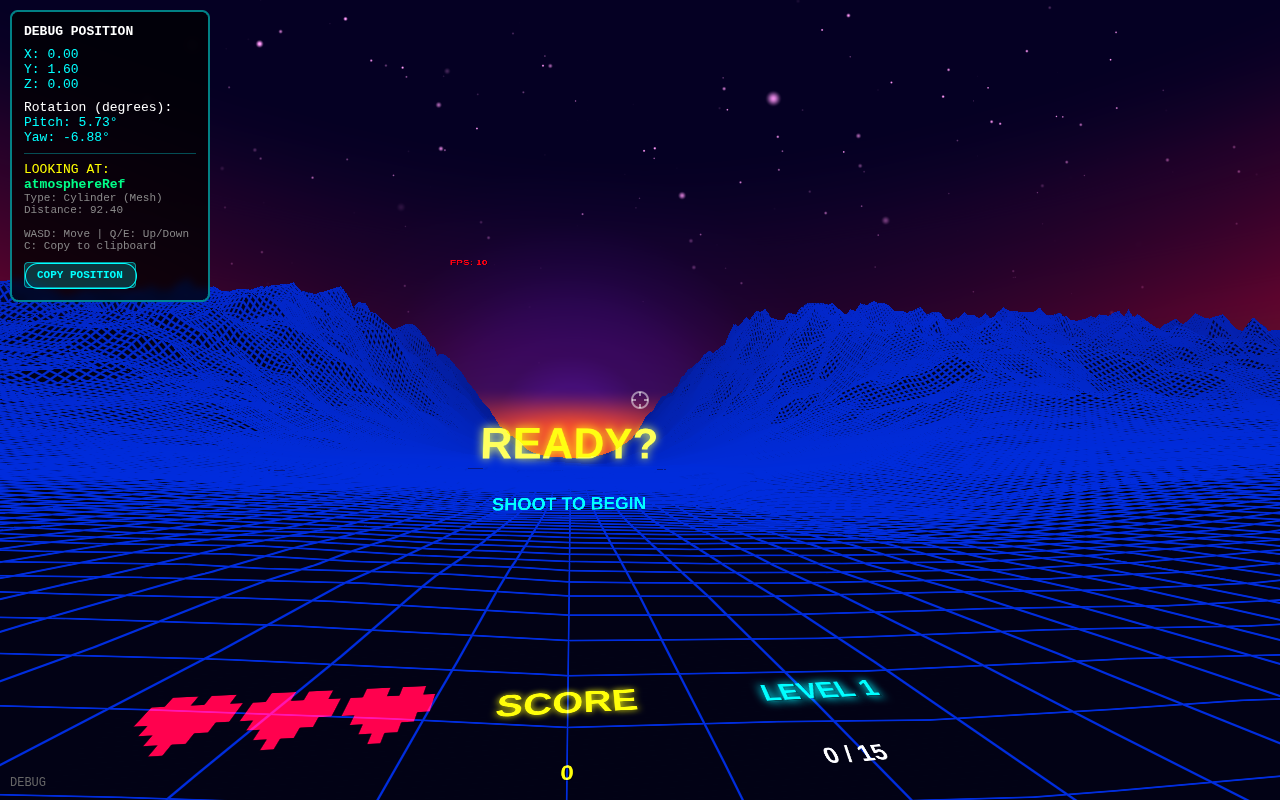
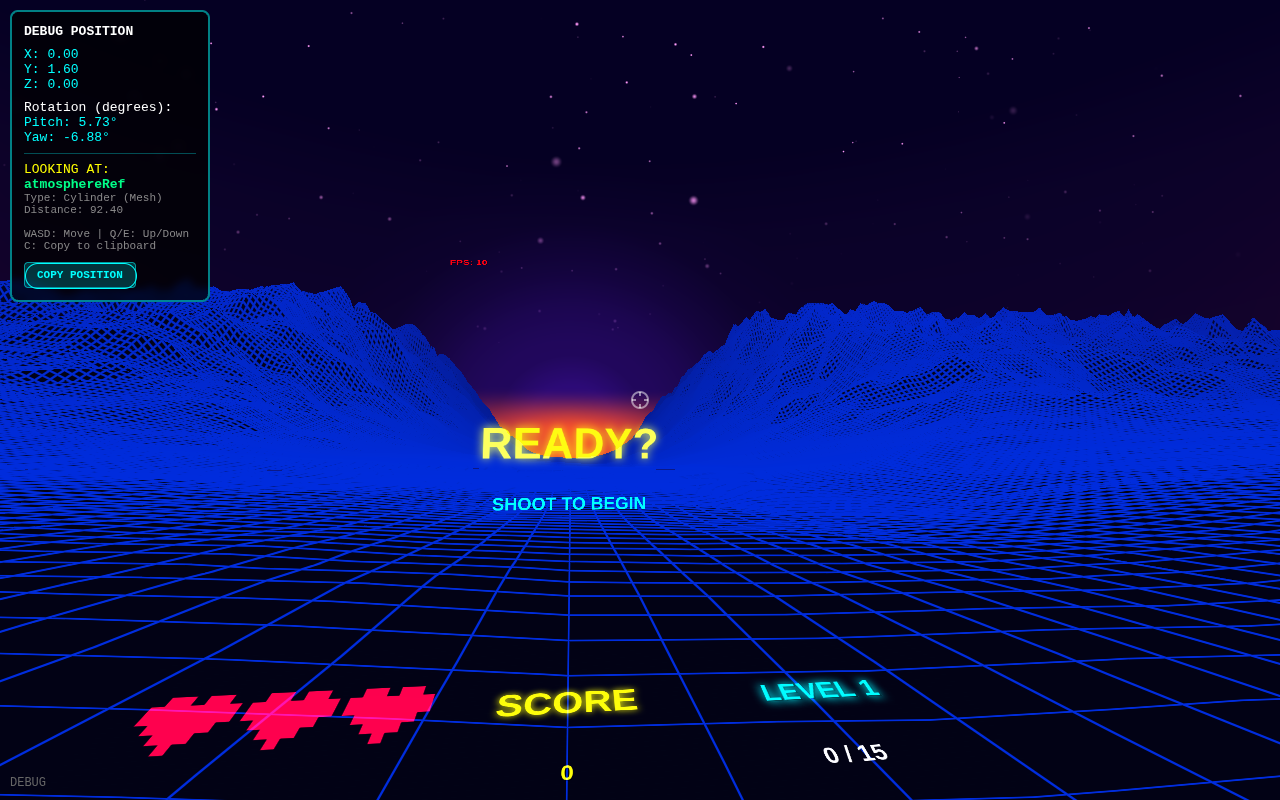
fix: increase fog density to 0.028-0.035, fix synthwave valley fog override
Fog was technically applied but density too low for visible effect.
Bumped all biome fogDensity values. Fixed buildSynthwaveValleyScene
which was overriding biome fog with its own FogExp2.

diff --git a/scenery.js b/scenery.js
@@ -11,7 +11,7 @@ export const THEMES = {
   sunrise_highway: {
     skyColor: 0xff8866,
     fogColor: 0xffd4b8,
-    fogDensity: 0.018,
+    fogDensity: 0.028,
     gridColor: '#ffffff',
     gridOpacity: 0.9,
     gridScale: 1.0,
@@ -38,7 +38,7 @@ export const THEMES = {
   vapor_sunset: {
     skyColor: 0xff77aa,
     fogColor: 0xffc8dd,
-    fogDensity: 0.016,
+    fogDensity: 0.030,
     mountainWireOpacity: 0.5,
     mountainScale: 0.8,
     floorColor: 0x220022,
@@ -60,7 +60,7 @@ export const THEMES = {
   ocean_floor: {
     skyColor: 0x001133,
     fogColor: 0x113355,
-    fogDensity: 0.016,
+    fogDensity: 0.030,
     gridColor: '#00ffaa',
     gridOpacity: 0.6,
     gridScale: 0.8,
@@ -87,7 +87,7 @@ export const THEMES = {
   synthwave: {
     skyColor: 0x000000,
     fogColor: 0x111111,
-    fogDensity: 0.016,
+    fogDensity: 0.030,
     gridColor: '#ff00ff',
     gridOpacity: 0.85,
     mountainFill: 0x0a0020,
@@ -107,7 +107,7 @@ export const THEMES = {
   hellscape: {
     skyColor: 0x0a0000,
     fogColor: 0x331111,
-    fogDensity: 0.02,
+    fogDensity: 0.03,
     gridColor: '#ff4400',
     gridOpacity: 0.9,
     mountainFill: 0x1a0000,
@@ -127,7 +127,7 @@ export const THEMES = {
   circuit_board: {
     skyColor: 0x003300,
     fogColor: 0x114411,
-    fogDensity: 0.02,
+    fogDensity: 0.03,
     gridColor: '#ffcc00',
     gridOpacity: 0.8,
     gridScale: 1.3,
@@ -154,7 +154,7 @@ export const THEMES = {
   frozen: {
     skyColor: 0x000a15,
     fogColor: 0x112244,
-    fogDensity: 0.018,
+    fogDensity: 0.028,
     gridColor: '#0088ff',
     gridOpacity: 0.7,
     mountainFill: 0x001133,
@@ -178,7 +178,7 @@ export const THEMES = {
   corruption: {
     skyColor: 0x050005,
     fogColor: 0x1a0a1a,
-    fogDensity: 0.025,
+    fogDensity: 0.030,
     gridColor: '#aa00ff',
     gridOpacity: 0.6,
     mountainFill: 0x0a000a,
@@ -198,7 +198,7 @@ export const THEMES = {
   the_stack: {
     skyColor: 0x333333,
     fogColor: 0x666666,
-    fogDensity: 0.018,
+    fogDensity: 0.028,
     gridColor: '#ffaa00',
     gridOpacity: 0.7,
     gridScale: 1.4,
@@ -225,7 +225,7 @@ export const THEMES = {
   digital_rain: {
     skyColor: 0x000000,
     fogColor: 0x002200,
-    fogDensity: 0.018,
+    fogDensity: 0.028,
     gridColor: '#00ff00',
     gridOpacity: 0.5,
     gridScale: 1.1,
@@ -256,7 +256,7 @@ export const THEMES = {
   boss: {
     skyColor: 0x0a0000,
     fogColor: 0x331111,
-    fogDensity: 0.025,
+    fogDensity: 0.030,
     gridColor: '#ff0000',
     gridOpacity: 1.0,
     mountainFill: 0x1a0000,
@@ -276,7 +276,7 @@ export const THEMES = {
   kaleidoscope: {
     skyColor: 0x000000,
     fogColor: 0x222222,
-    fogDensity: 0.02,
+    fogDensity: 0.03,
     gridColor: '#ffffff',
     gridOpacity: 0.9,
     gridScale: 0.6,
@@ -303,7 +303,7 @@ export const THEMES = {
   retro_arcade: {
     skyColor: 0x110022,
     fogColor: 0x331144,
-    fogDensity: 0.018,
+    fogDensity: 0.028,
     gridColor: '#ff00ff',
     gridOpacity: 0.75,
     gridScale: 1.5,
@@ -330,7 +330,7 @@ export const THEMES = {
   void_garden: {
     skyColor: 0x000005,
     fogColor: 0x0a0a22,
-    fogDensity: 0.018,
+    fogDensity: 0.028,
     gridColor: '#aaaaff',
     gridOpacity: 0.5,
     gridScale: 0.7,
@@ -357,7 +357,7 @@ export const THEMES = {
   neon_rainforest: {
     skyColor: 0x001a0d,
     fogColor: 0x113322,
-    fogDensity: 0.02,
+    fogDensity: 0.03,
     gridColor: '#00ff88',
     gridOpacity: 0.65,
     gridScale: 1.2,
@@ -384,7 +384,7 @@ export const THEMES = {
   synthwave_valley: {
     skyColor: 0x1a004a,
     fogColor: 0x3a1a5a,
-    fogDensity: 0.016,
+    fogDensity: 0.030,
     gridColor: '#ff2ed1',
     gridOpacity: 0,
     gridScale: 1,
@@ -424,7 +424,7 @@ export const THEMES = {
   desert_night: {
     skyColor: 0x06080c,
     fogColor: 0x121820,
-    fogDensity: 0.018,
+    fogDensity: 0.028,
     gridColor: '#000000',
     gridOpacity: 0,
     gridScale: 1,
@@ -457,7 +457,7 @@ export const THEMES = {
   alien_planet: {
     skyColor: 0x080812,
     fogColor: 0x1a1525,
-    fogDensity: 0.016,
+    fogDensity: 0.030,
     gridColor: '#000000',
     gridOpacity: 0,
     gridScale: 1,
@@ -490,7 +490,7 @@ export const THEMES = {
   hellscape_lava: {
     skyColor: 0x000000,
     fogColor: 0x111111,
-    fogDensity: 0.02,
+    fogDensity: 0.03,
     gridColor: '#000000',
     gridOpacity: 0,
     gridScale: 1,

diff --git a/main.js b/main.js
@@ -479,7 +479,7 @@ function init() {
   // Scene — use black background for Adreno GPU "Fast clear" optimization on Quest
   scene = new THREE.Scene();
   scene.background = new THREE.Color(0x000000);
-  scene.fog = new THREE.FogExp2(0x888888, 0.018);  // Visible atmospheric fog (will be overridden per biome)
+  scene.fog = new THREE.FogExp2(0x888888, 0.025);  // Visible atmospheric fog (will be overridden per biome)
 
   // Camera - added directly to scene for proper VR hand positioning
   camera = new THREE.PerspectiveCamera(70, window.innerWidth / window.innerHeight, 0.1, 1000);
@@ -9958,7 +9958,7 @@ function buildSynthwaveValleyScene(group) {
 
   // Set synthwave fog for atmospheric depth and distance fade
   if (scene) {
-    scene.fog = new THREE.FogExp2(0x2C0051, 0.016);  // Purple fog matching biome
+    scene.fog = new THREE.FogExp2(0x2C0051, 0.025);  // Purple fog matching biome
   }
 
   // Sky dome (no stars, we use global starfield)
